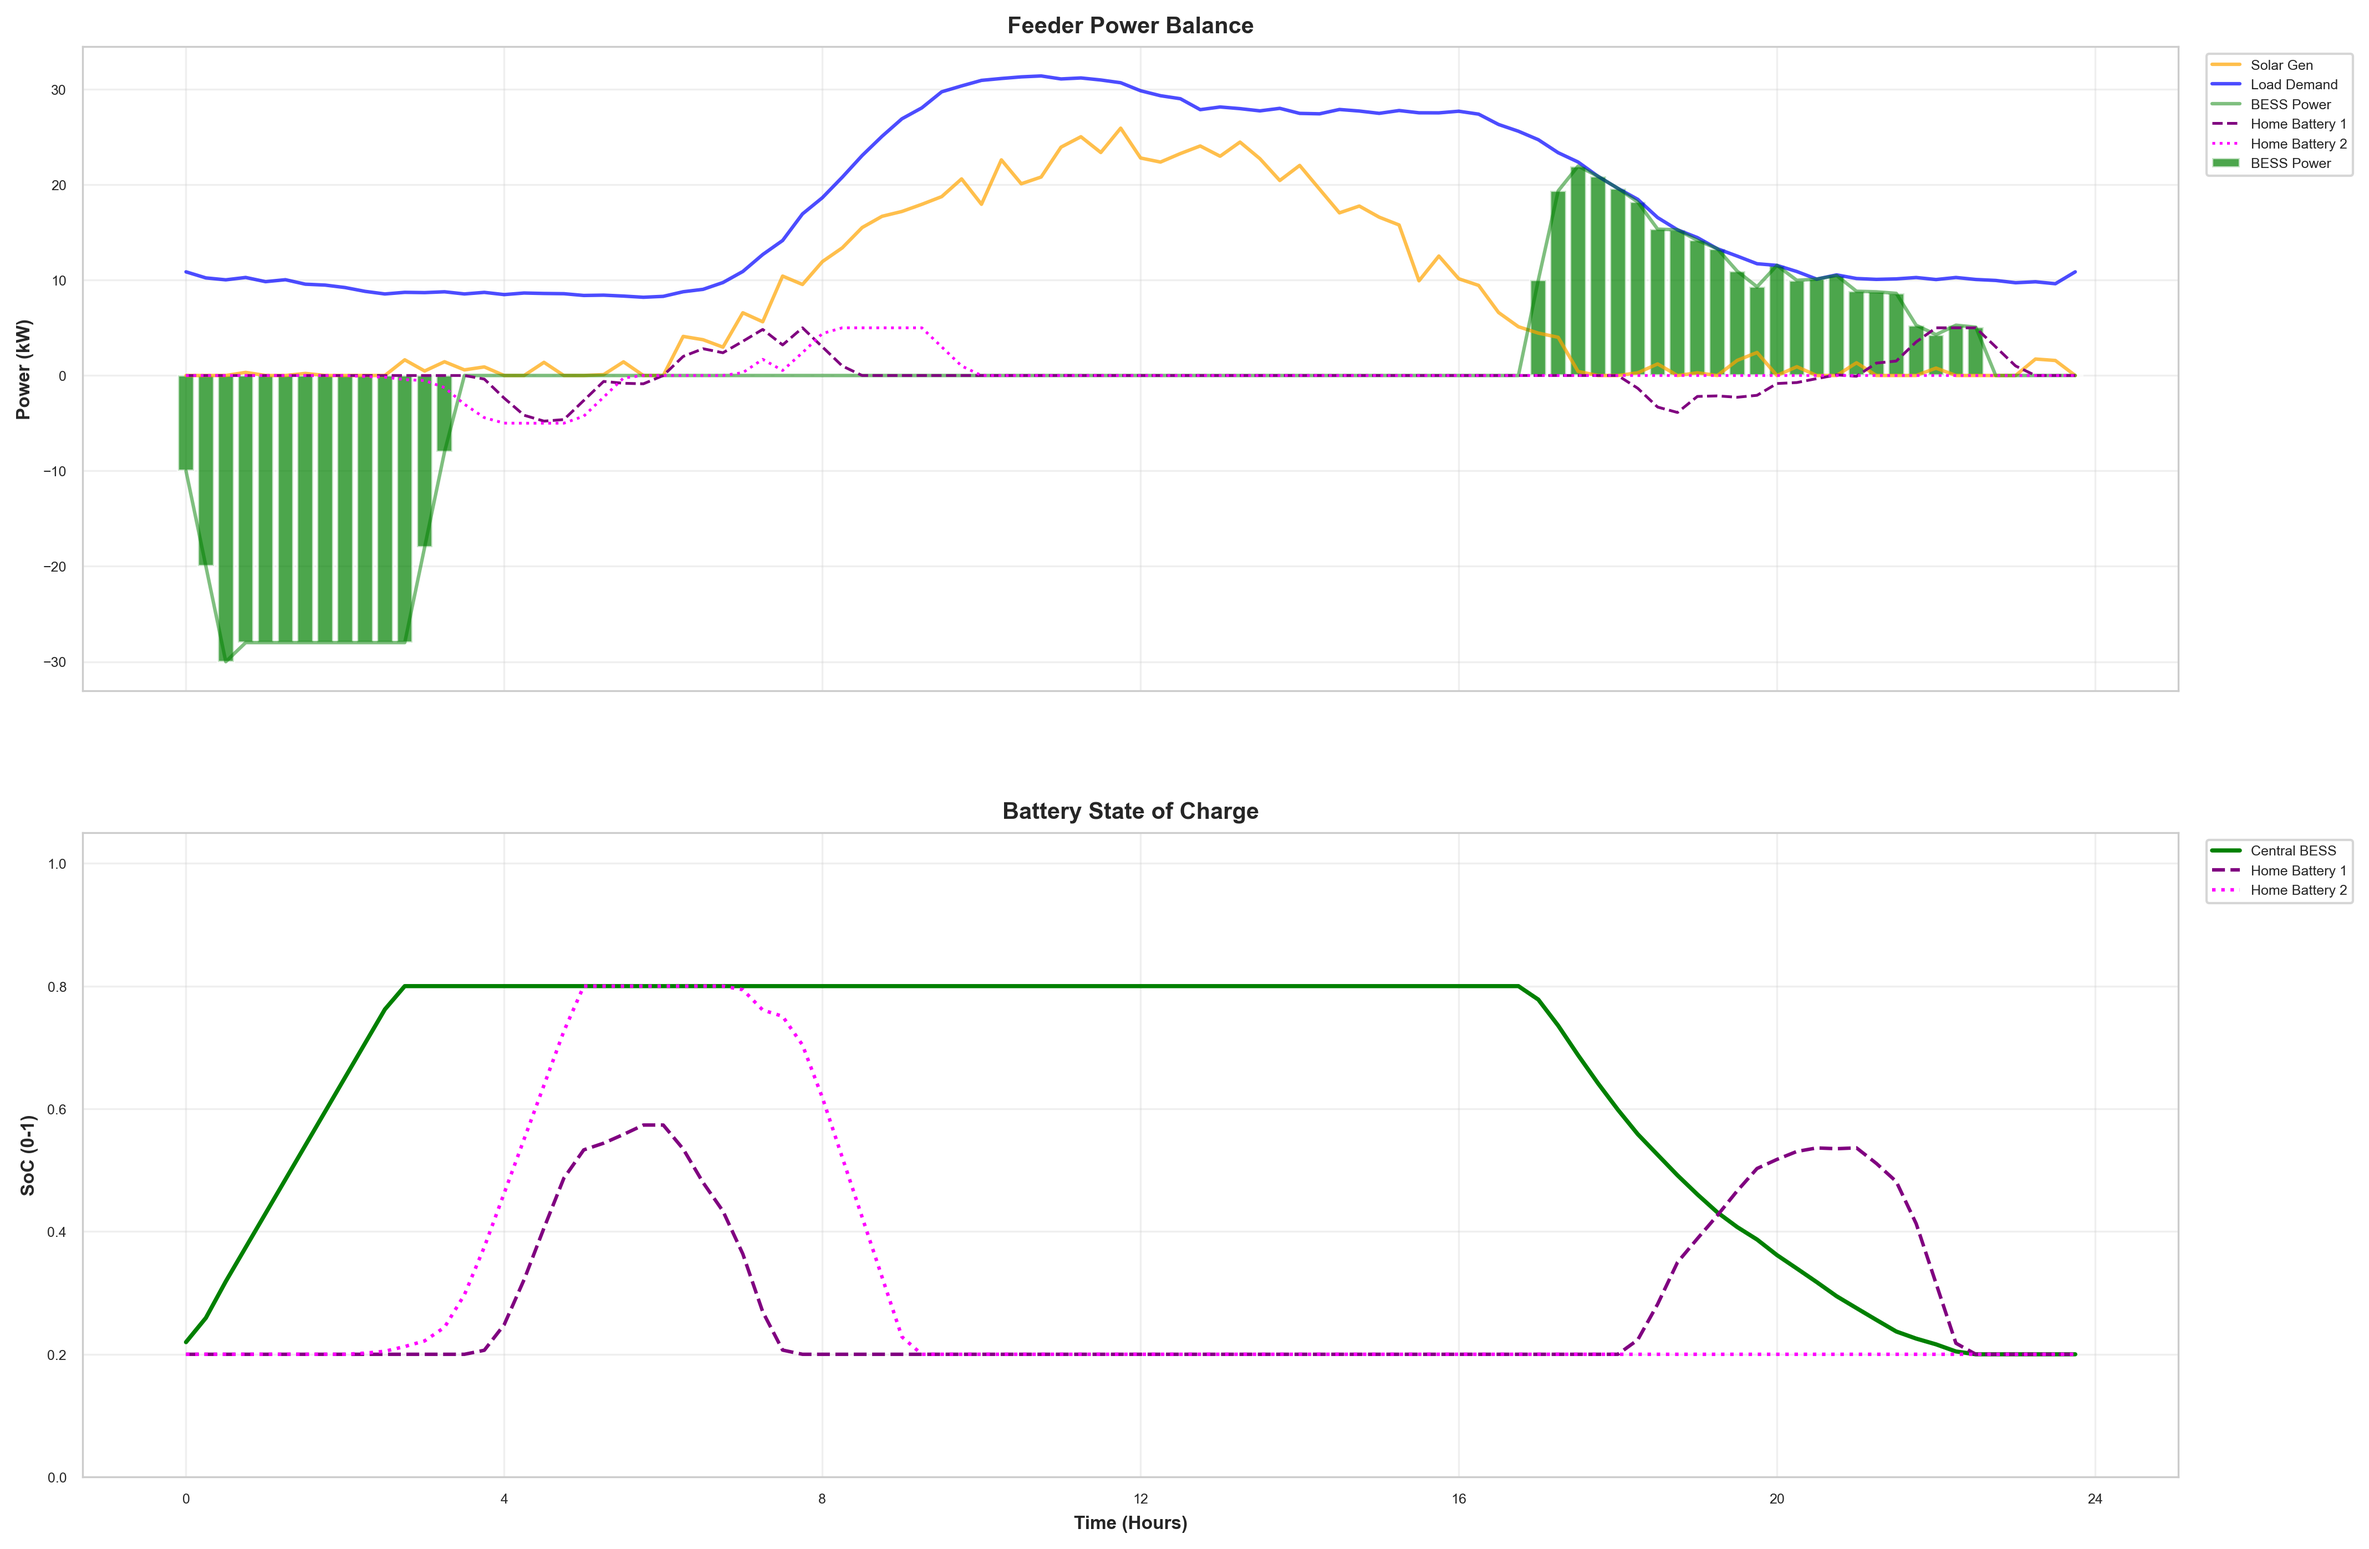
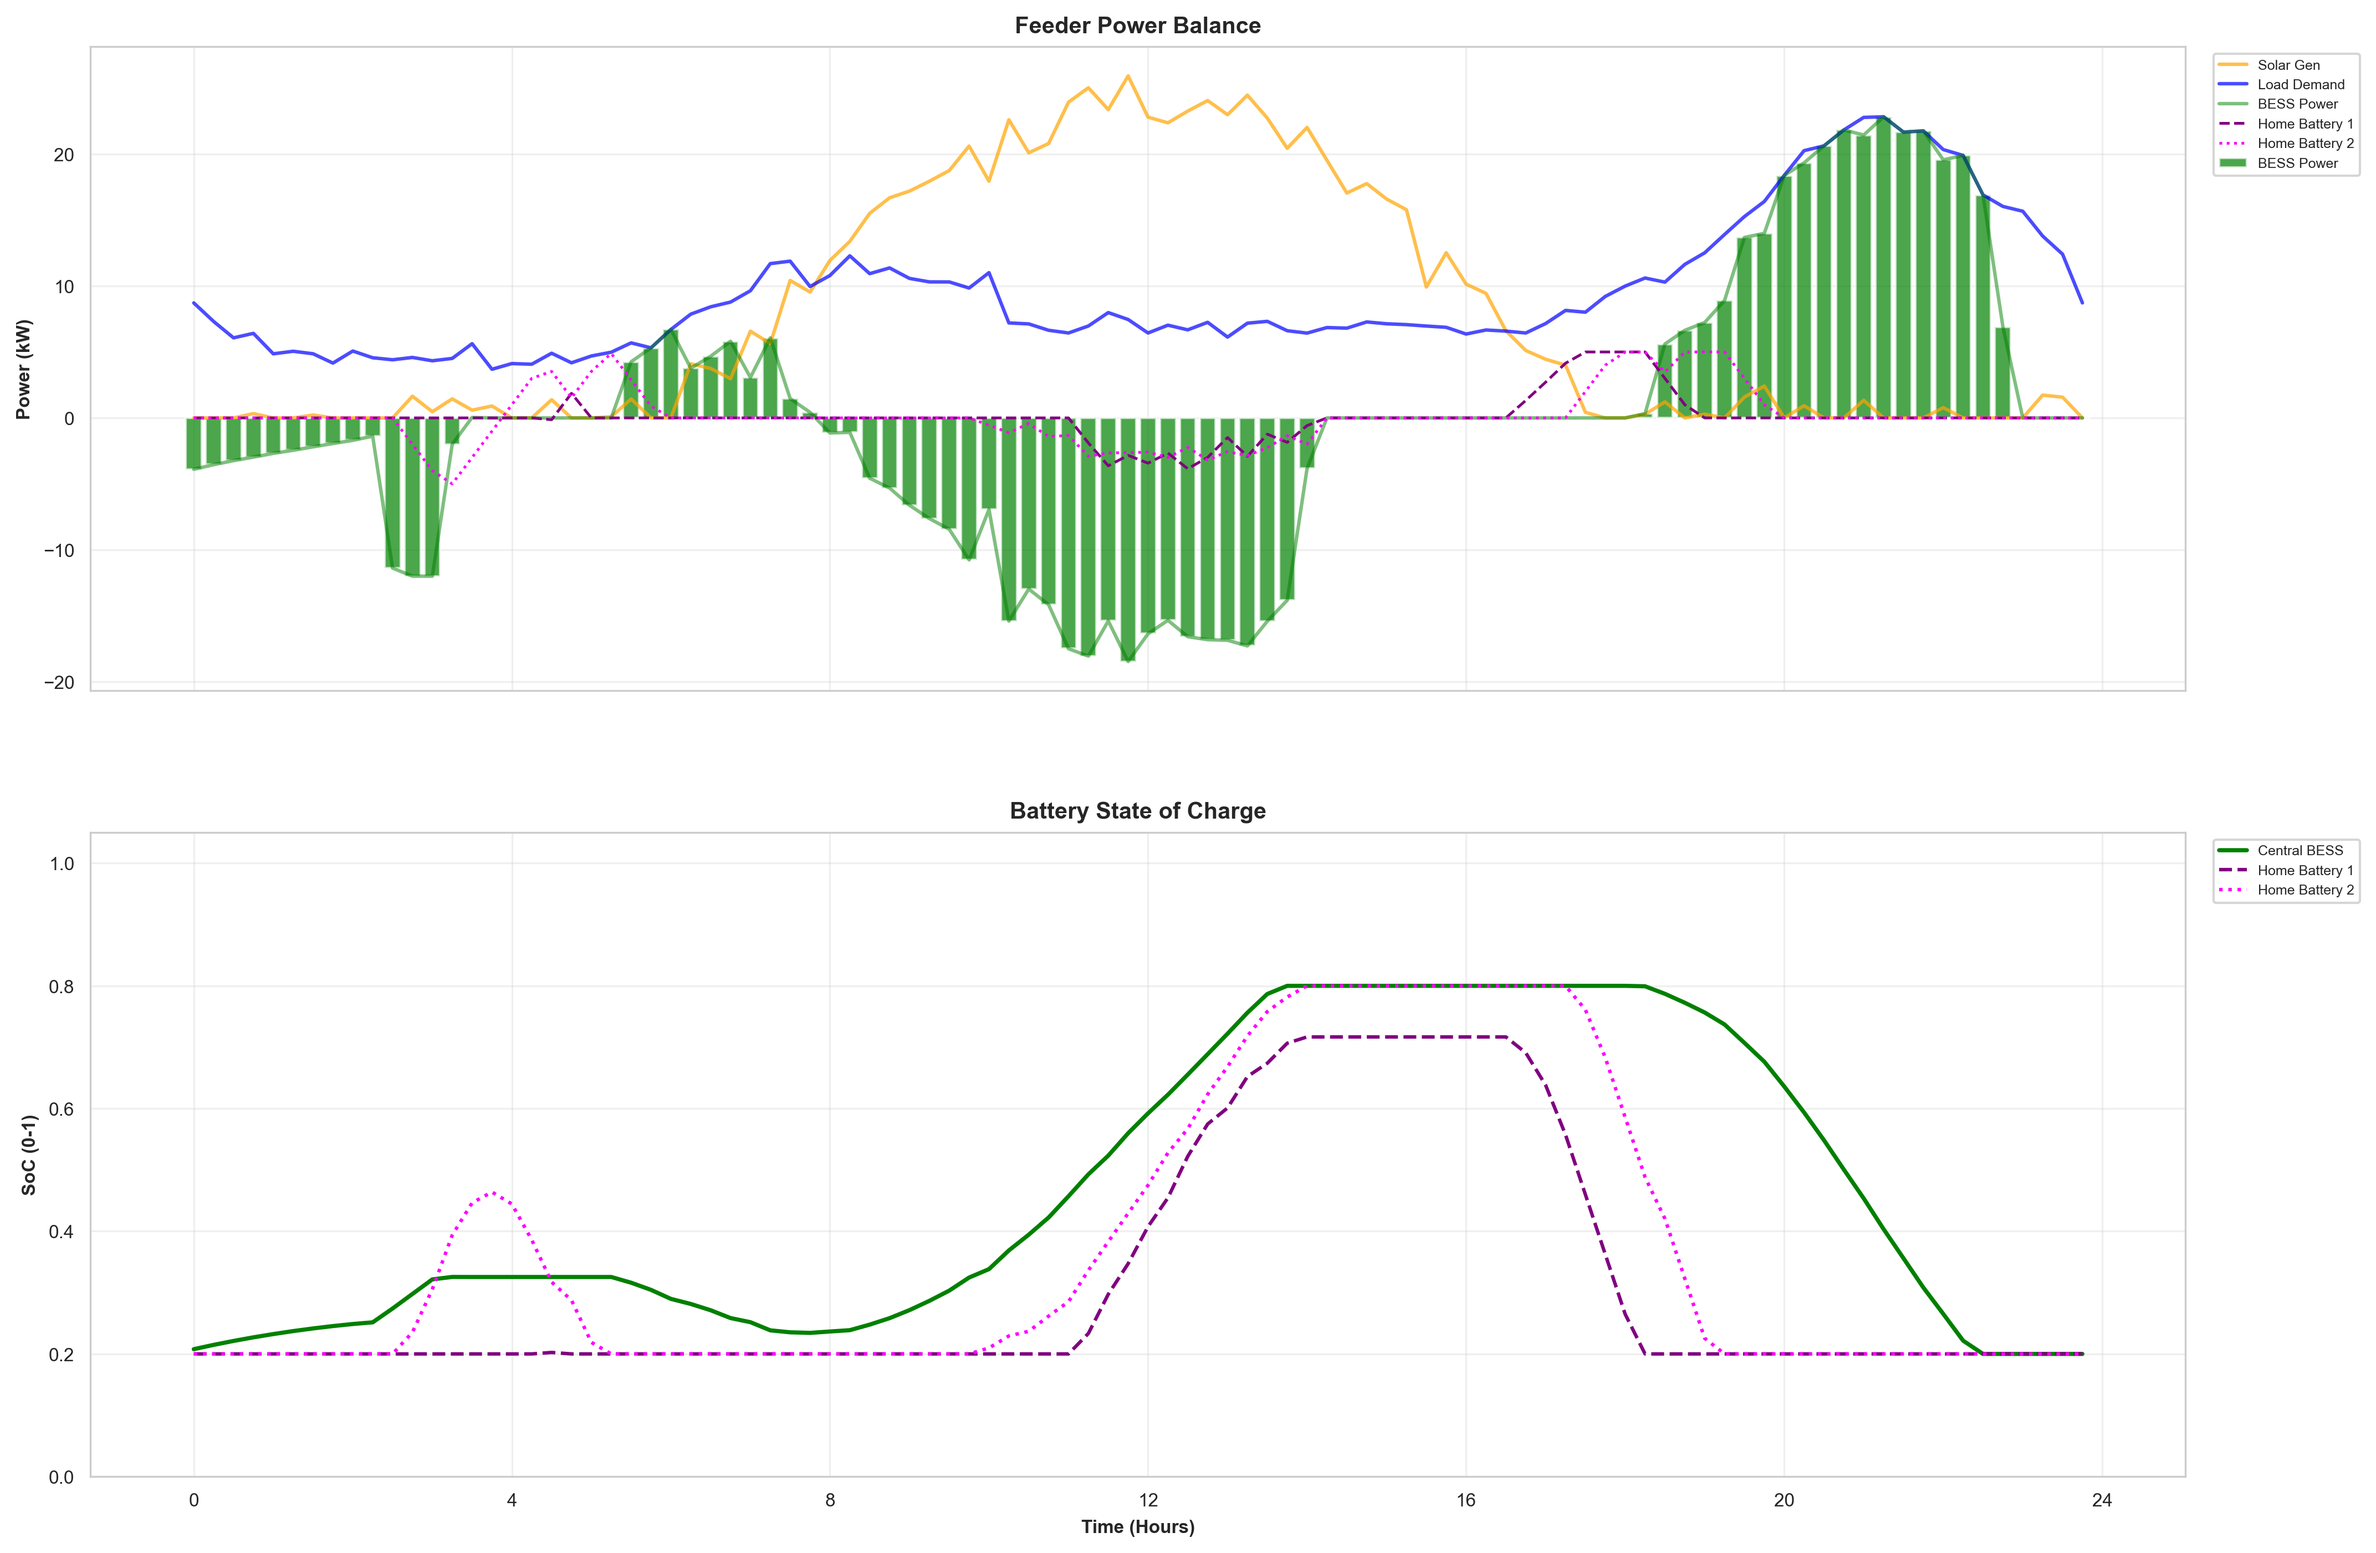
Switch training scenario and update results

diff --git a/RL_agent/train.py b/RL_agent/train.py
@@ -39,7 +39,7 @@ def main():
 
     # Set to a scenario name (e.g., "heatwave_day") to train on that specific scenario.
     # Set to None to use the default 'load_forecast.csv' and 'solar_forecast_formatted.csv'
-    scenario_name = "Next_Day_Forecast_21"  # Change to desired scenario or None for default
+    scenario_name = "weekend_low_load"  # Change to desired scenario or None for default
 
 
     
